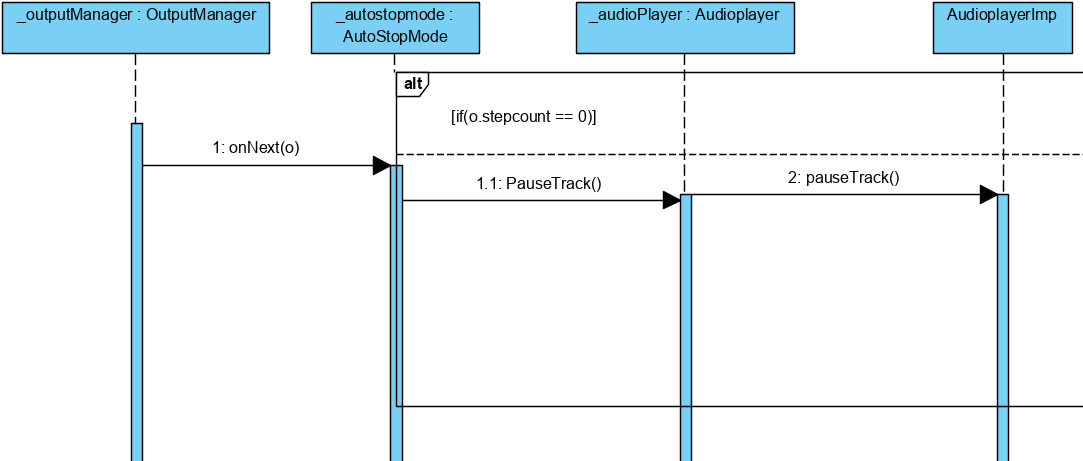
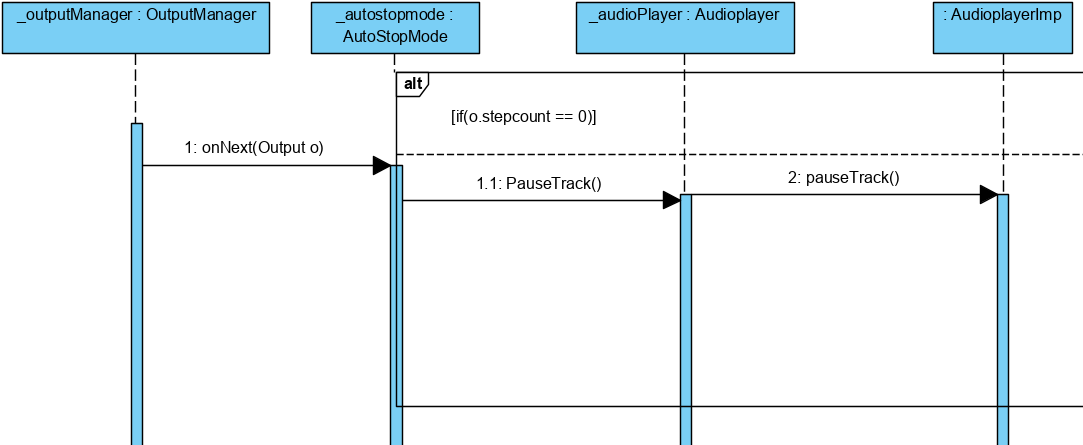
Added missing Descriptions to sequence dias

diff --git a/Dokumente/02 - Entwurf/entwurf/0_praeambel/praeambel.tex b/Dokumente/02 - Entwurf/entwurf/0_praeambel/praeambel.tex
@@ -15,6 +15,6 @@ Ziel des Entwurfsdokuments ist die Systemarchitektur der App 'Karl' darzustellen
 		\textit{Spezifikation der Earable-Plattform }
 	\end{center}
 
-Zu jeder Schicht, Klasse, Attribut und Methode sind kurze Beschreibungen vorhanden. Hinzu kommen Sequenzdiagramme, um Abläufe von User-Interaktonen, wie zum Beispiel das Verbinden mit den Earables, zu veranschaulichen.
+Am Anfang wird kurz auf die Architektur (MVVM) und die damit verbundenen Strukturen(Data Binding, Commands) eingegangen. Danach folgen kurze Beschreibungen zu jeder Schicht, Klasse, Attribut und Methode. Hinzu kommen Sequenzdiagramme, um Abläufe von User-Interaktonen, wie zum Beispiel das Verbinden mit den Earables, zu veranschaulichen.
 
 \end{document}
